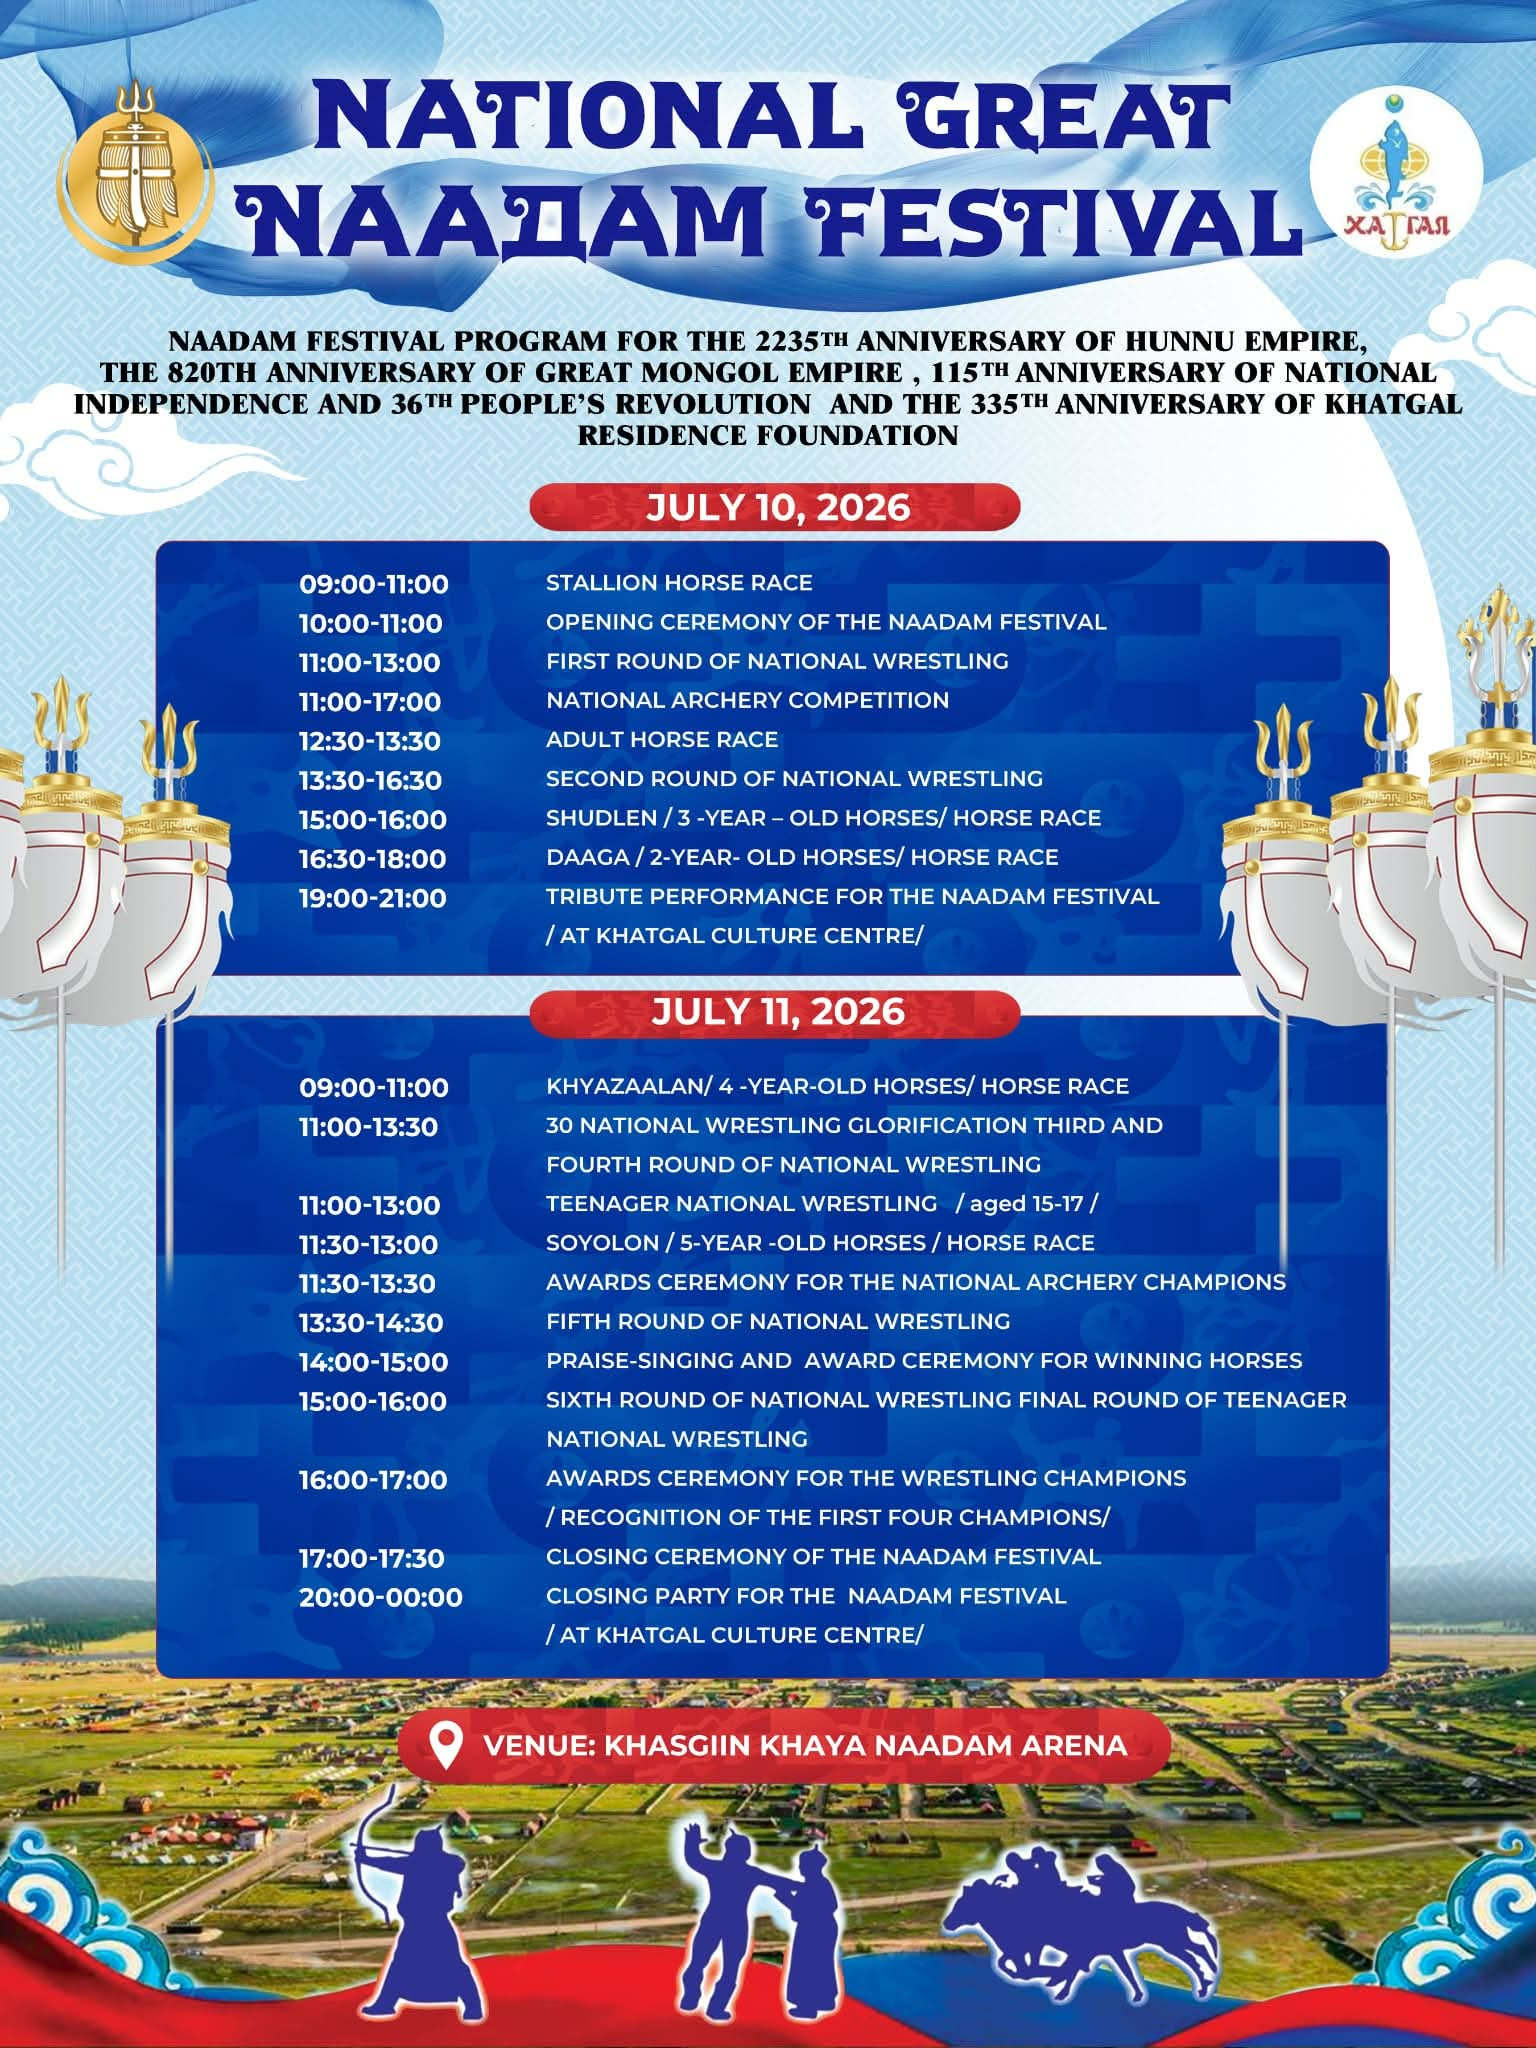
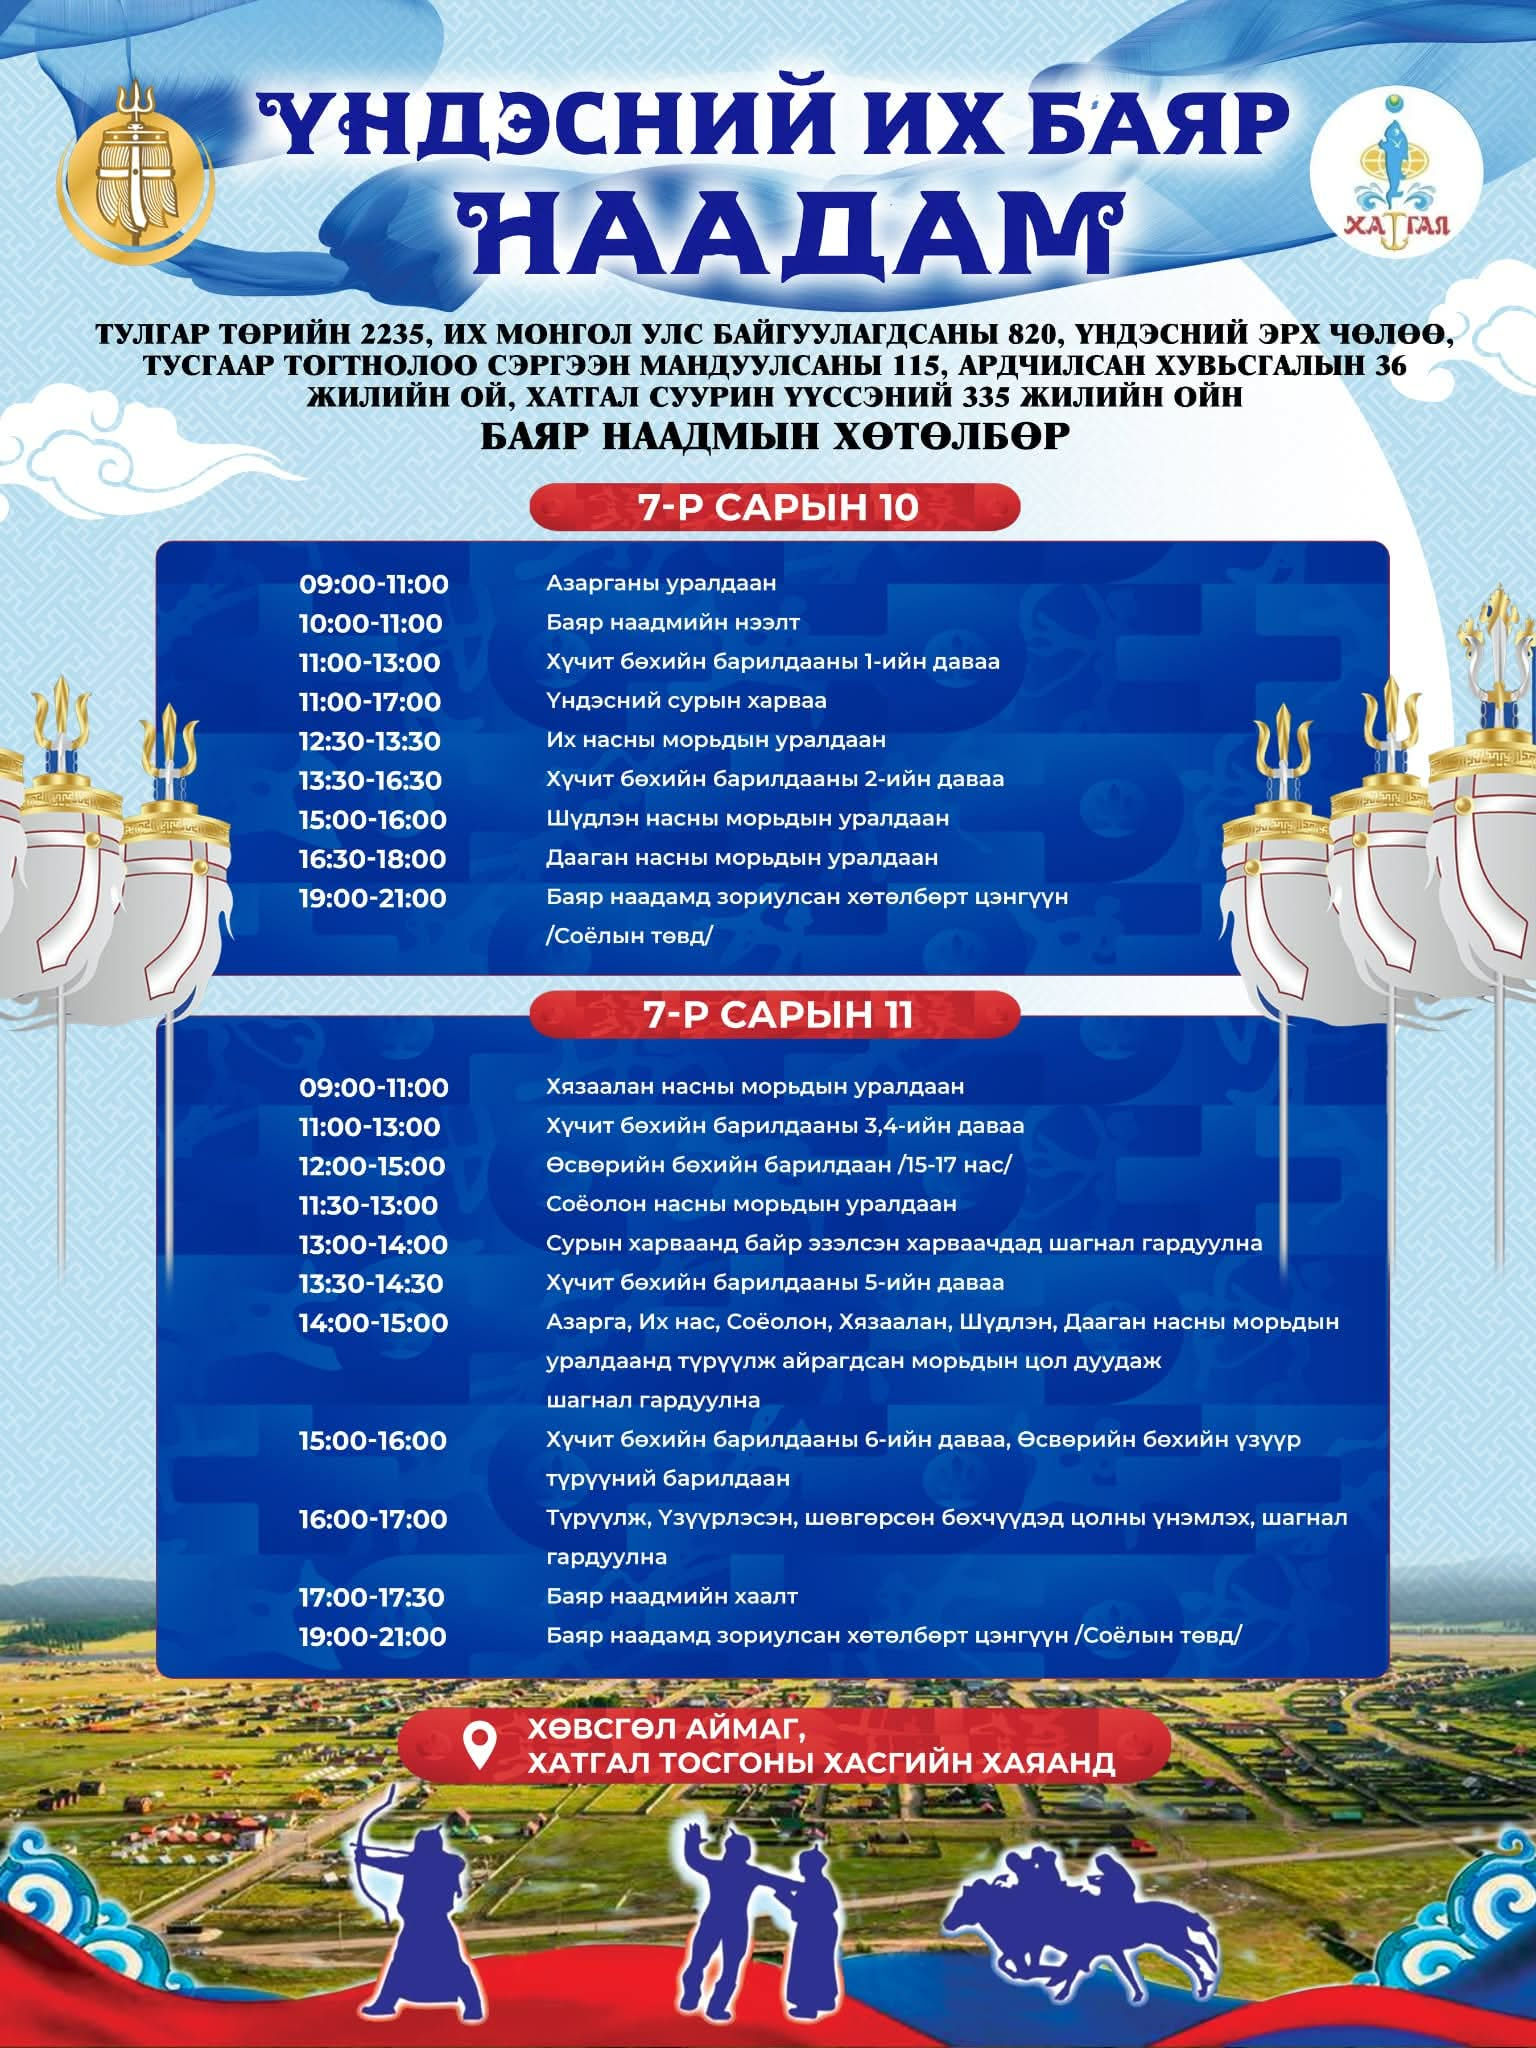
Refine Naadam schedule overlay and booking locale handling

Changed region(s): [[0.0625, 0.0, 0.9375, 0.875], [0.1875, 0.5312, 0.3125, 0.8125]]

diff --git a/app/components/layout/NavigationOverlay.tsx b/app/components/layout/NavigationOverlay.tsx
@@ -1,6 +1,6 @@
 "use client";
 
-import { useEffect, useState } from "react";
+import { useEffect } from "react";
 import Link from "next/link";
 import { Facebook, Images, Instagram, Mail } from "lucide-react";
 import SiteImage from "@/app/components/SiteImage";
@@ -142,11 +142,7 @@ export default function NavigationOverlay({ isOpen, onClose }: NavigationOverlay
   const pathWithoutLocale = getPathWithoutLocale(pathname);
   const reduceMotion = useReducedMotion();
 
-  const [naadamActive, setNaadamActive] = useState(false);
-
-  useEffect(() => {
-    setNaadamActive(isNaadam2026Active());
-  }, []);
+  const naadamActive = isNaadam2026Active();
 
   useEffect(() => {
     if (isOpen) {
@@ -299,8 +295,8 @@ export default function NavigationOverlay({ isOpen, onClose }: NavigationOverlay
             </div>
 
             {/* ───────── Main body ───────── */}
-            <div className="min-h-0 flex-1 overflow-hidden">
-              <div className="mx-auto grid min-h-full w-full max-w-7xl grid-cols-1 gap-5 px-5 py-6 md:grid-cols-[minmax(0,1fr)_minmax(17rem,22rem)] md:items-end md:gap-12 md:px-12 md:py-10 lg:gap-16 xl:py-14">
+            <div className="min-h-0 flex-1 overflow-y-auto overflow-x-hidden">
+              <div className="mx-auto grid min-h-full w-full max-w-7xl grid-cols-1 gap-5 px-5 py-6 md:px-12 md:py-10 lg:grid-cols-[minmax(0,1fr)_minmax(17rem,22rem)] lg:items-end lg:gap-16 xl:py-12">
                 <div className="flex min-w-0 flex-col md:self-center">
                   <motion.div
                     initial={reduceMotion ? { opacity: 1, y: 0 } : { opacity: 0, y: 10 }}
@@ -319,21 +315,7 @@ export default function NavigationOverlay({ isOpen, onClose }: NavigationOverlay
                     aria-label="Primary"
                     className="flex flex-col gap-2 md:gap-3.5"
                   >
-                    {[
-                      ...mainNavItems,
-                      ...(naadamActive
-                        ? [
-                            {
-                              id: "naadam",
-                              href: "#naadam-schedule",
-                              image: "",
-                              label: { en: "Naadam Schedule", mn: "Наадмын хөтөлбөр" },
-                              meta: { en: "", mn: "" },
-                              available: true,
-                            },
-                          ]
-                        : []),
-                    ].map((item, i) => {
+                    {mainNavItems.map((item, i) => {
                       const label = isMn ? item.label.mn : item.label.en;
                       const linkClass = [
                         "group inline-flex items-center gap-3",
@@ -357,18 +339,6 @@ export default function NavigationOverlay({ isOpen, onClose }: NavigationOverlay
                           }}
                         >
                           {item.available ? (
-                            item.id === "naadam" ? (
-                              <a
-                                href="#"
-                                className={linkClass}
-                                onClick={(event) => {
-                                  handleNaadamScheduleInteraction(event);
-                                  onClose();
-                                }}
-                              >
-                                <span>{label}</span>
-                              </a>
-                            ) : (
                             <Link
                               href={getNavItemHref(locale, item.href)}
                               onClick={(event) => {
@@ -381,7 +351,6 @@ export default function NavigationOverlay({ isOpen, onClose }: NavigationOverlay
                             >
                               <span>{label}</span>
                             </Link>
-                            )
                           ) : (
                             <span role="link" aria-disabled="true" className={linkClass}>
                               <span>{label}</span>
@@ -394,6 +363,26 @@ export default function NavigationOverlay({ isOpen, onClose }: NavigationOverlay
                       );
                     })}
                   </nav>
+
+                  {naadamActive ? (
+                    <motion.div
+                      initial={reduceMotion ? { opacity: 1, y: 0 } : { opacity: 0, y: 8 }}
+                      animate={{ opacity: 1, y: 0 }}
+                      transition={{ duration: reduceMotion ? 0 : 0.4, delay: 0.5 }}
+                      className="mt-5 md:mt-6"
+                    >
+                      <a
+                        href="#naadam-schedule"
+                        onClick={(event) => {
+                          handleNaadamScheduleInteraction(event, locale);
+                          onClose();
+                        }}
+                        className="inline-flex max-w-full items-center justify-center border border-main/20 px-4 py-2.5 text-left font-cta text-[10px] font-medium uppercase leading-relaxed tracking-[0.18em] text-main/70 transition-colors hover:border-main/45 hover:text-main focus:outline-none focus-visible:ring-2 focus-visible:ring-surface/50 sm:text-[11px]"
+                      >
+                        {isMn ? "Наадмын хөтөлбөр" : "Naadam Schedule"}
+                      </a>
+                    </motion.div>
+                  ) : null}
 
                   <motion.div
                     initial={reduceMotion ? { opacity: 1, y: 0 } : { opacity: 0, y: 8 }}

diff --git a/lib/naadamSchedule.ts b/lib/naadamSchedule.ts
@@ -1,18 +1,26 @@
+const KHATGAL_NAADAM_2026_IMAGE_VERSIONS = {
+  en: "20260702-1518",
+  mn: "20260702-1555",
+} as const;
+
 export const KHATGAL_NAADAM_2026_SCHEDULE_PATHS = {
-  en: "/images/events/naadam/khatgal-naadam-2026-en.jpg",
-  mn: "/images/events/naadam/khatgal-naadam-2026-mn.jpg",
+  en: `/images/events/naadam/khatgal-naadam-2026-en.jpg?v=${KHATGAL_NAADAM_2026_IMAGE_VERSIONS.en}`,
+  mn: `/images/events/naadam/khatgal-naadam-2026-mn.jpg?v=${KHATGAL_NAADAM_2026_IMAGE_VERSIONS.mn}`,
 } as const;
 
 export const NAADAM_SCHEDULE_OPEN_EVENT = "dalaieej:open-naadam-schedule";
+export type NaadamScheduleLocale = keyof typeof KHATGAL_NAADAM_2026_SCHEDULE_PATHS;
 
 export type NaadamScheduleOpenDetail = {
   locale?: string;
 };
 
-export function getKhatgalNaadam2026SchedulePath(locale: string): string {
-  return locale === "mn"
-    ? KHATGAL_NAADAM_2026_SCHEDULE_PATHS.mn
-    : KHATGAL_NAADAM_2026_SCHEDULE_PATHS.en;
+export function normalizeNaadamScheduleLocale(locale?: string): NaadamScheduleLocale {
+  return locale === "mn" ? "mn" : "en";
+}
+
+export function getKhatgalNaadam2026SchedulePath(locale?: string): string {
+  return KHATGAL_NAADAM_2026_SCHEDULE_PATHS[normalizeNaadamScheduleLocale(locale)];
 }
 
 export function isNaadam2026Active(): boolean {

diff --git a/app/components/promo/NaadamScheduleOverlay.tsx b/app/components/promo/NaadamScheduleOverlay.tsx
@@ -1,3 +1,4 @@
+/* eslint-disable @next/next/no-img-element */
 "use client";
 
 import { useCallback, useEffect, useState } from "react";
@@ -8,6 +9,8 @@ import {
   getKhatgalNaadam2026SchedulePath,
   isNaadam2026Active,
   NAADAM_SCHEDULE_OPEN_EVENT,
+  normalizeNaadamScheduleLocale,
+  type NaadamScheduleLocale,
   type NaadamScheduleOpenDetail,
 } from "@/lib/naadamSchedule";
 
@@ -16,7 +19,9 @@ export default function NaadamScheduleOverlay() {
   const [portalMounted, setPortalMounted] = useState(false);
   const [open, setOpen] = useState(false);
   const [zoomed, setZoomed] = useState(false);
-  const [scheduleLocale, setScheduleLocale] = useState(locale);
+  const [scheduleLocale, setScheduleLocale] = useState<NaadamScheduleLocale>(
+    normalizeNaadamScheduleLocale(locale),
+  );
 
   const schedulePath = getKhatgalNaadam2026SchedulePath(scheduleLocale);
   const scheduleAlt =
@@ -39,7 +44,7 @@ export default function NaadamScheduleOverlay() {
     const onOpen = (event: Event) => {
       if (!isNaadam2026Active()) return;
       const detail = (event as CustomEvent<NaadamScheduleOpenDetail>).detail;
-      setScheduleLocale(detail?.locale ?? locale);
+      setScheduleLocale(normalizeNaadamScheduleLocale(detail?.locale ?? locale));
       setZoomed(false);
       setOpen(true);
     };

diff --git a/app/[locale]/booking/page.tsx b/app/[locale]/booking/page.tsx
@@ -2,11 +2,11 @@
 "use client";
 
 import { useState, useEffect, useMemo, useRef, type MouseEvent } from "react";
-import { useSearchParams, usePathname } from "next/navigation";
+import { useSearchParams } from "next/navigation";
 import Link from "next/link";
 import { Suspense } from "react";
 import { Check, Loader2, Plus, Minus, AlertTriangle, ChevronRight, ChevronLeft, ChevronDown, Trash2, Moon, ArrowRight, ShieldCheck, Info } from "lucide-react";
-import { useTranslations } from 'next-intl';
+import { useLocale, useTranslations } from 'next-intl';
 import { isNonRefundableRate, sumDepositDueForRoomLines } from "@/lib/deposit-policy";
 import { parseBoundedInteger, validateStayDates } from "@/lib/booking-guards";
 import { formatIsoDateAsDots } from "@/lib/dateFormat";
@@ -354,10 +354,10 @@ const bookingFaqs = [
 
 function BookingContent() {
   const t = useTranslations('booking');
+  const locale = useLocale();
   const searchParams = useSearchParams();
-  const pathname = usePathname();
 
-  const currentLocale = pathname.startsWith('/mn') ? 'mn' : 'en';
+  const currentLocale = locale === 'mn' ? 'mn' : 'en';
   const localePrefix = withLocalePath(currentLocale, "/");
   const editorialFont = currentLocale === 'mn' ? 'font-editorial-mn' : 'font-editorial-en';
 

diff --git a/app/components/layout/Footer.tsx b/app/components/layout/Footer.tsx
@@ -206,7 +206,7 @@ export default function Footer() {
                   {item.key === "naadam" ? (
                     <a
                       href="#"
-                      onClick={handleNaadamScheduleInteraction}
+                      onClick={(event) => handleNaadamScheduleInteraction(event, locale)}
                       className="text-sm text-main/80 hover:text-white transition-colors"
                     >
                       {t(item.key)}